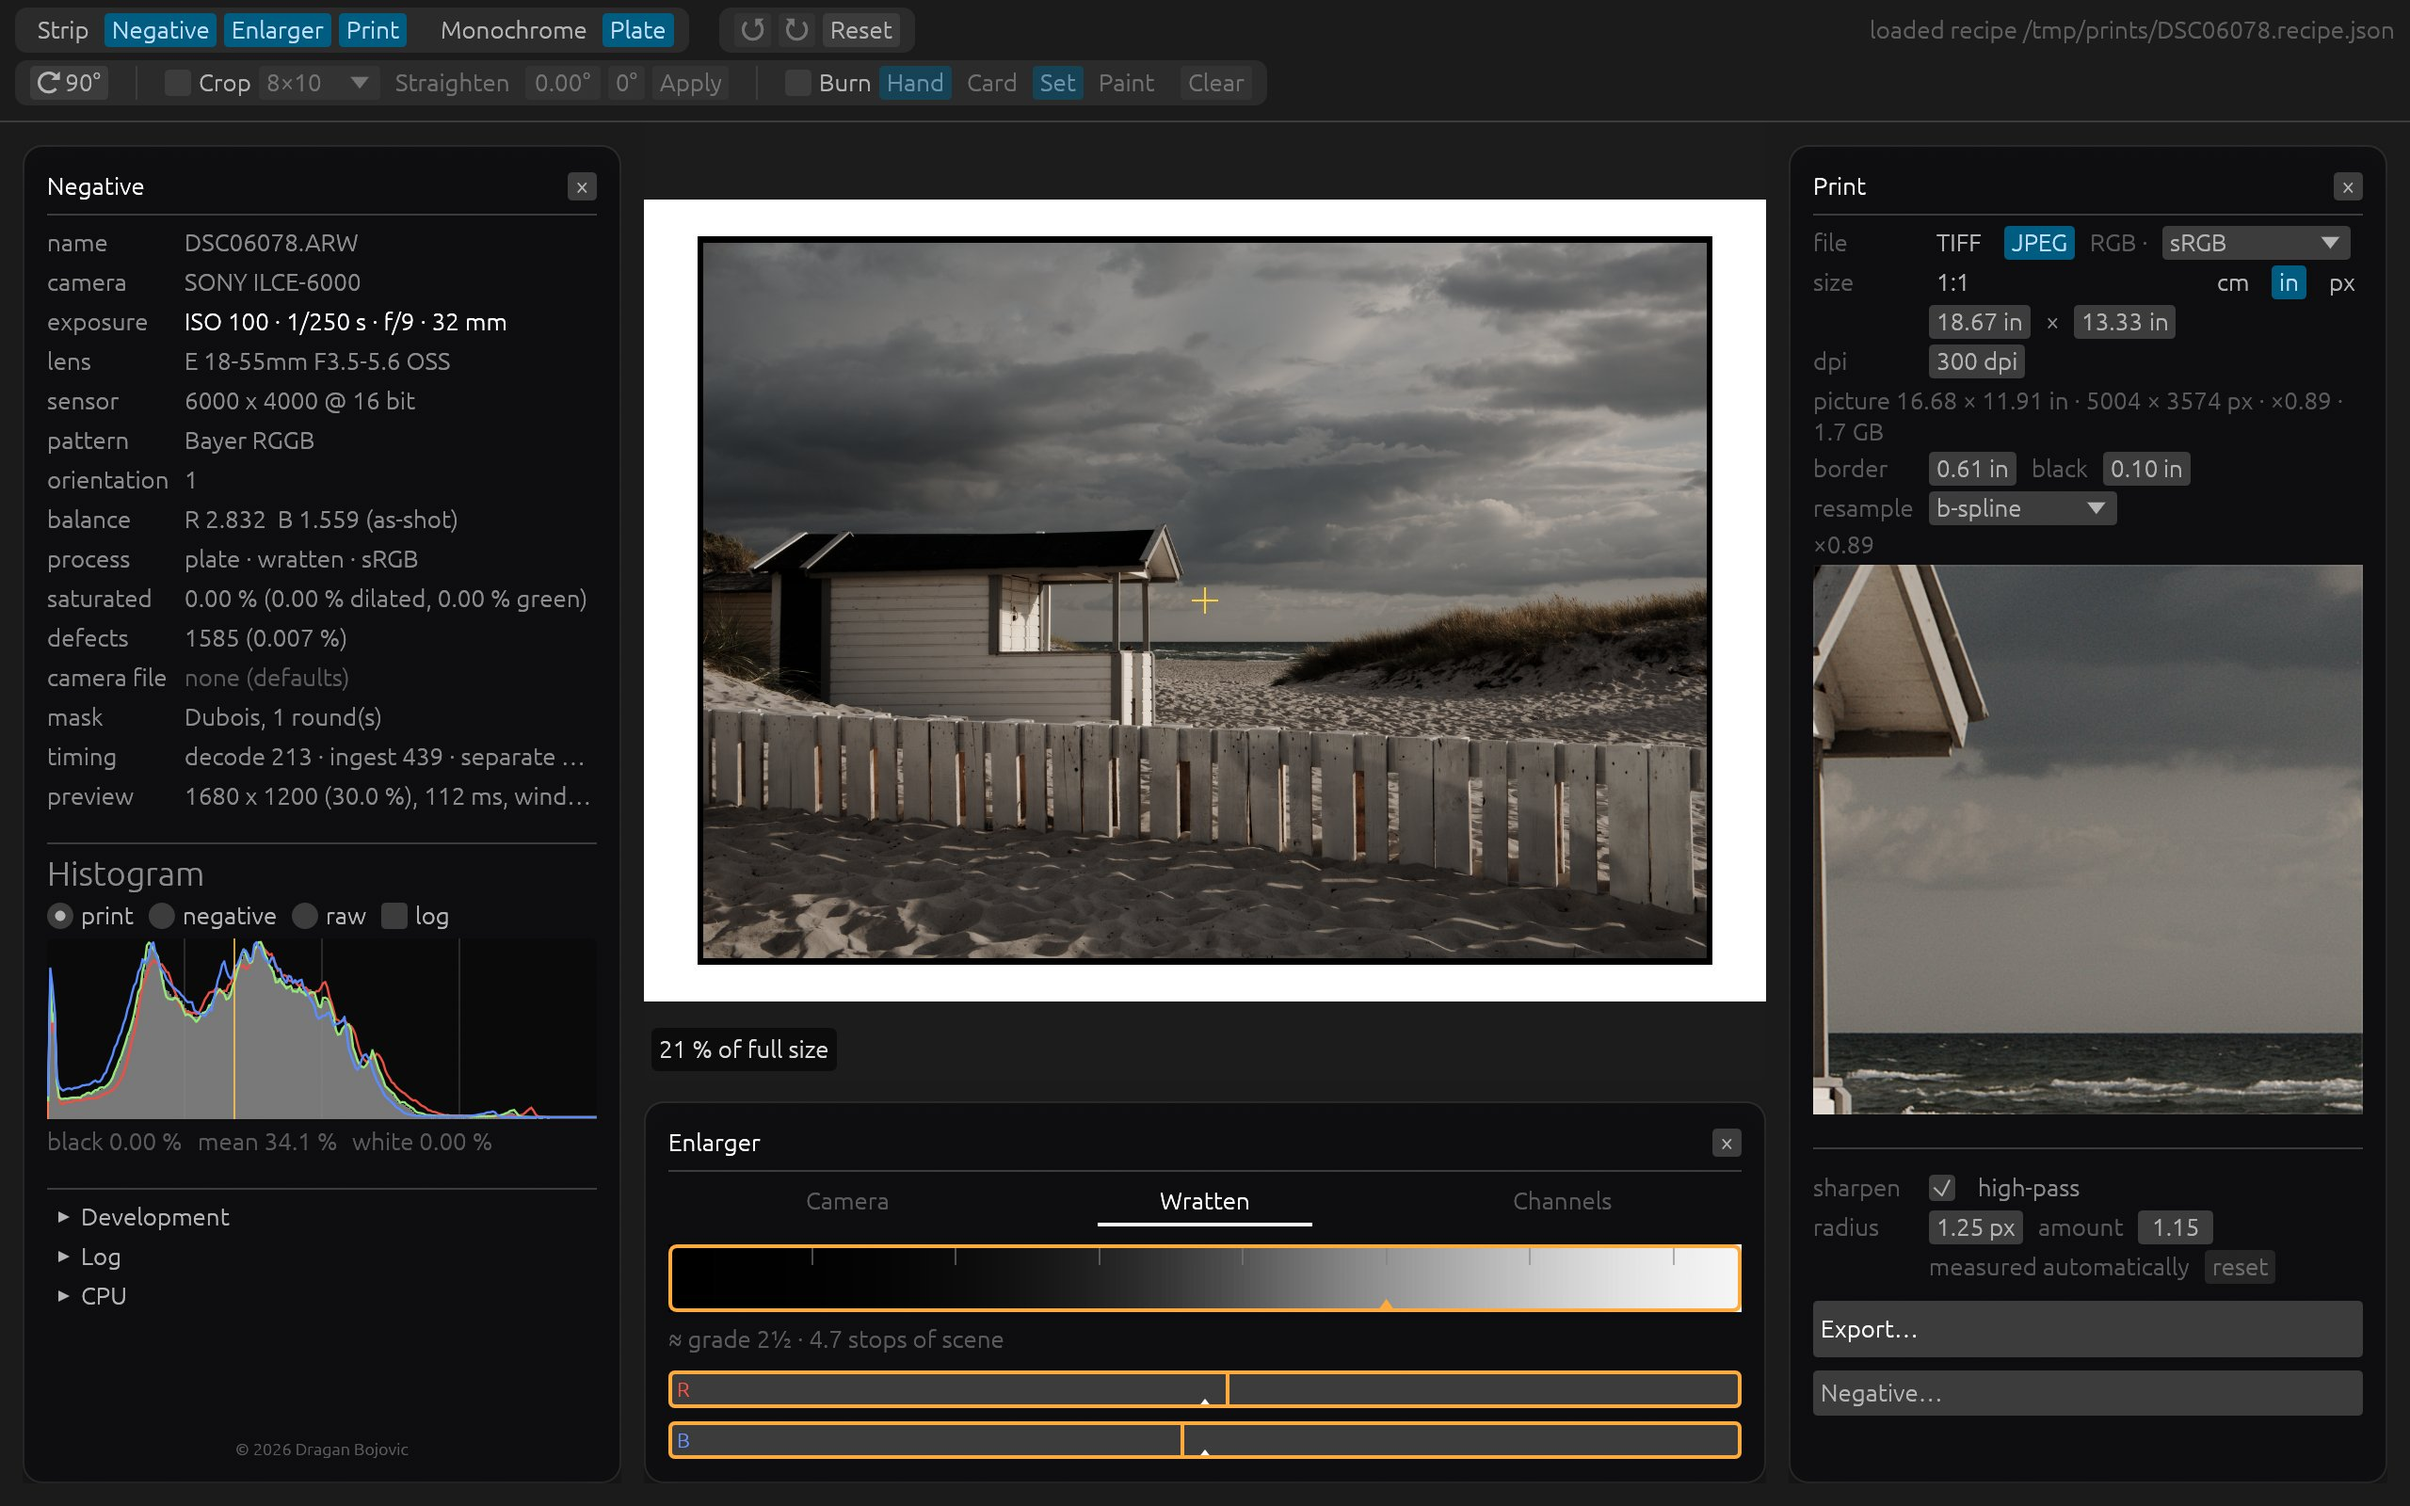
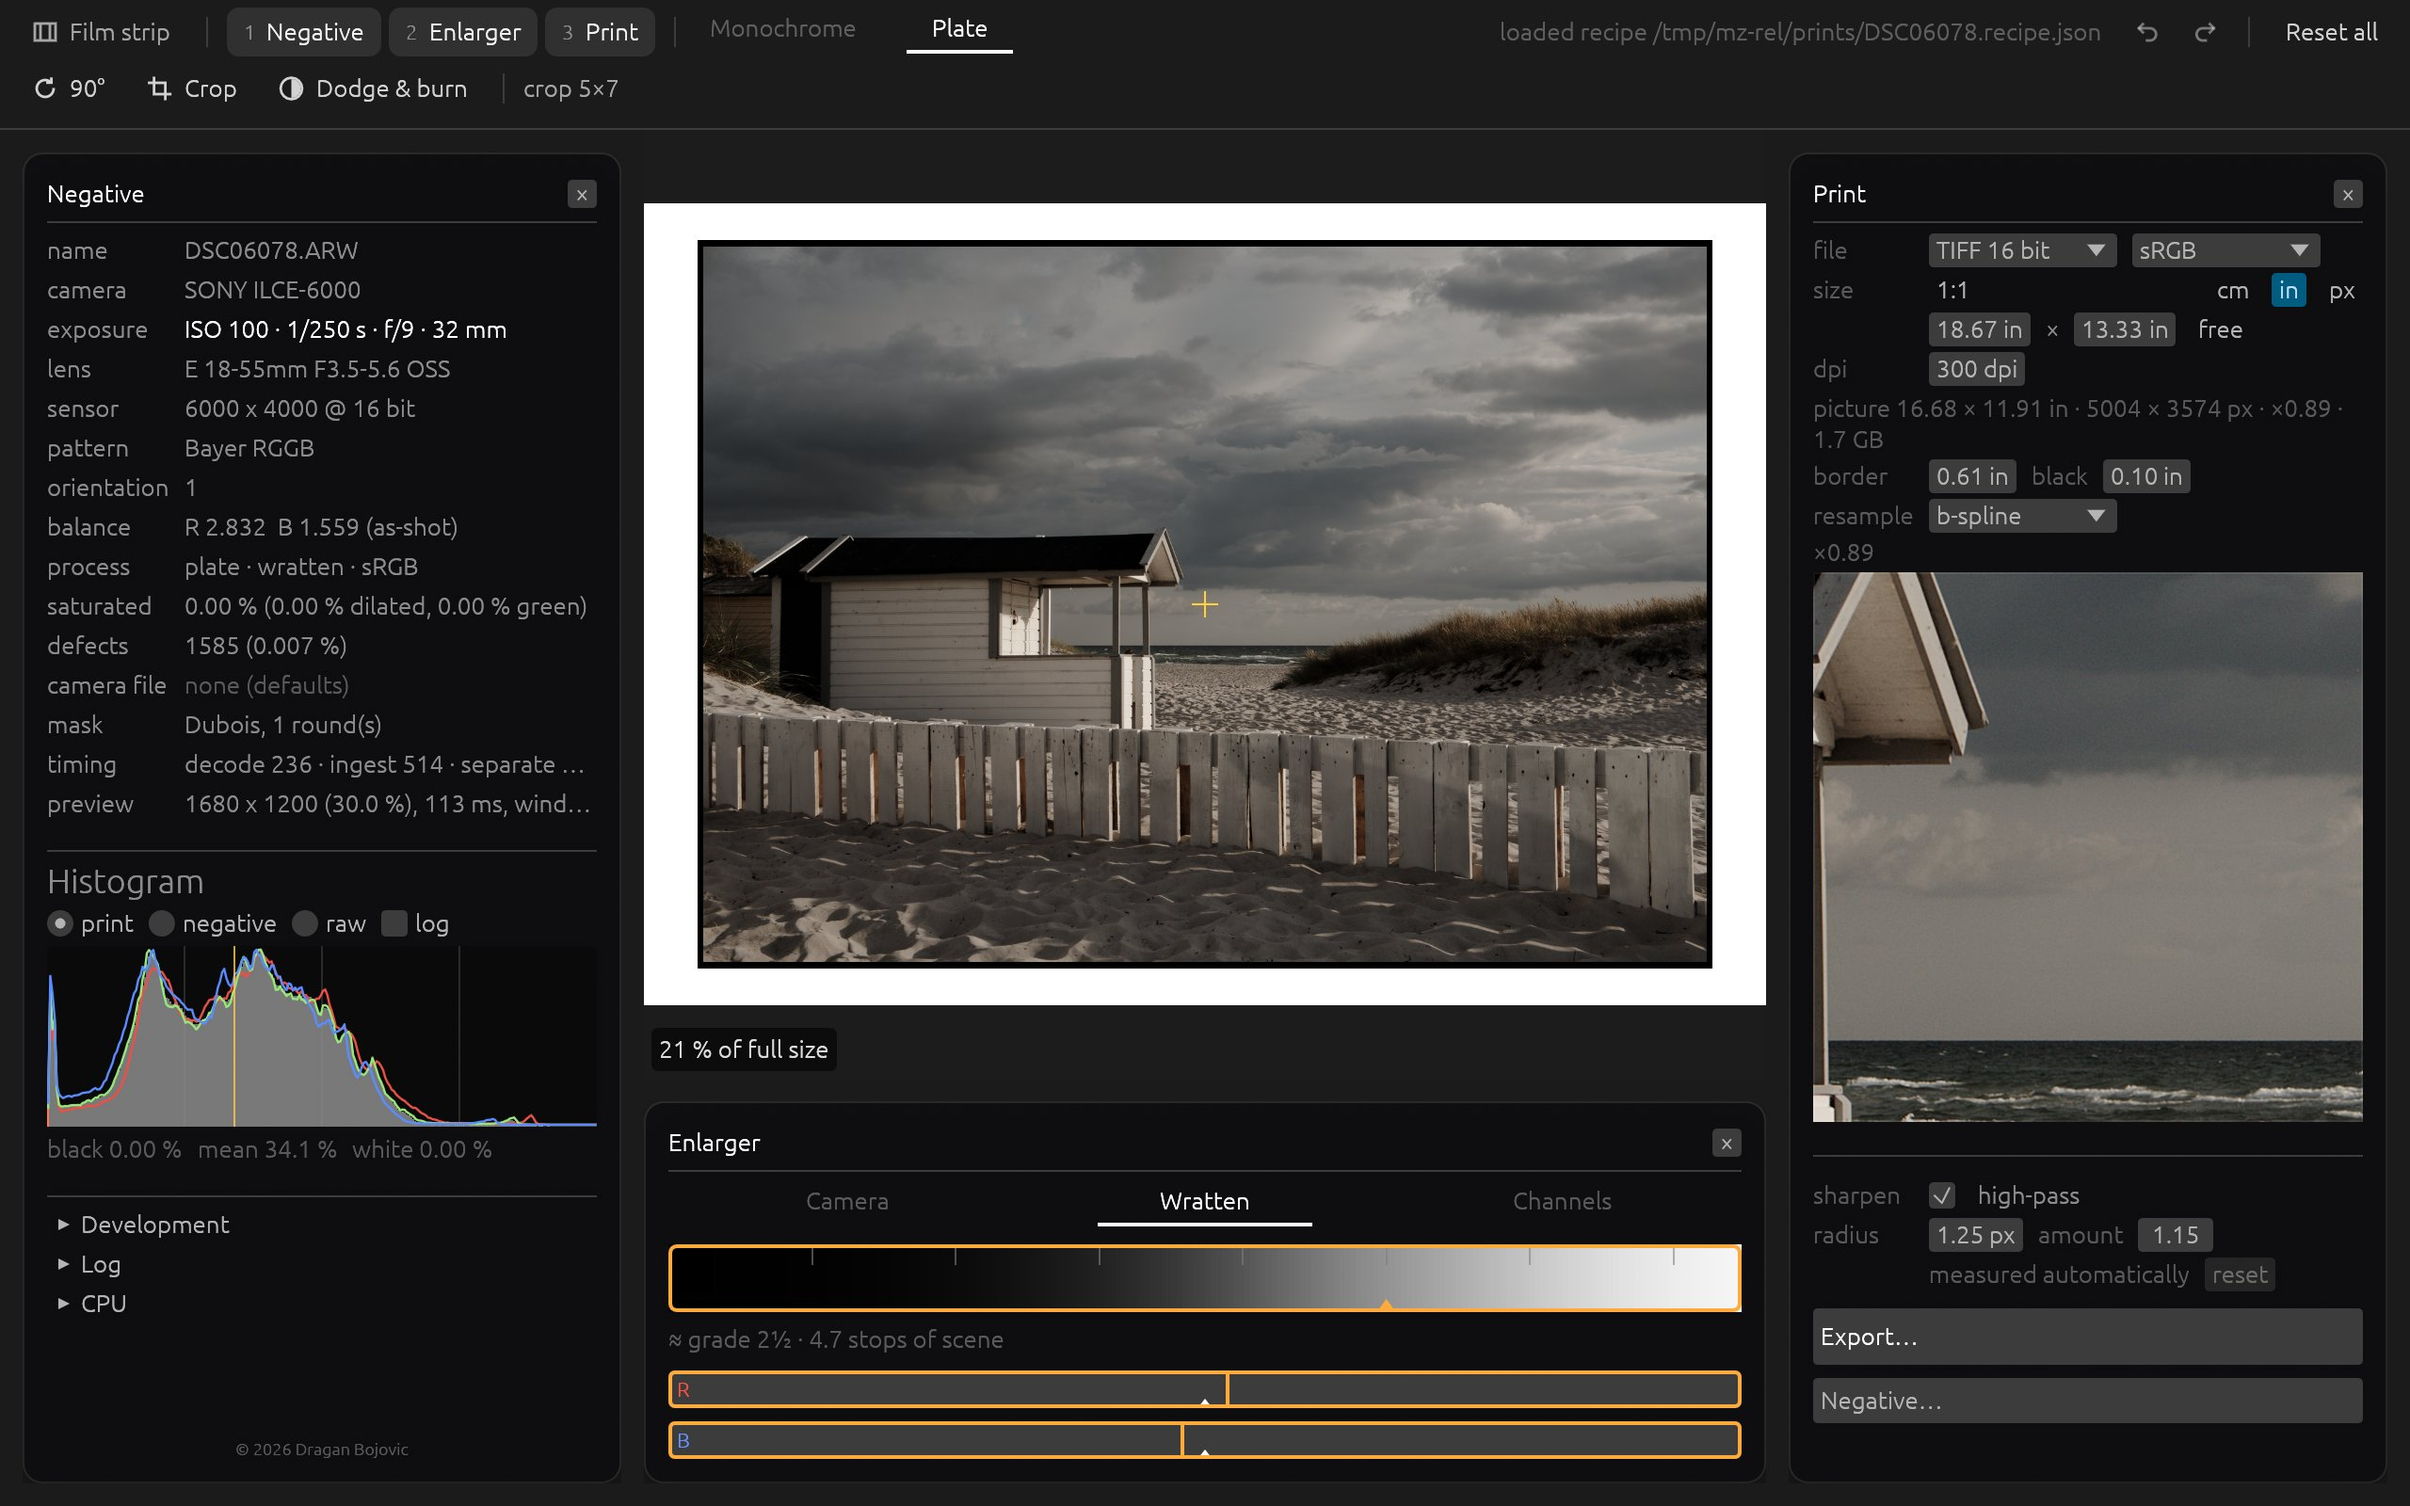
README: the window is shown with the new toolbar
docs/gui.jpg is the same capture as before, taken again from this
source: DSC06078.ARW of the sample files with the recipe beside it, in
the plate process, the strip closed. 2560 x 1600, the window's own
pixels at scale 2, as a JPEG of quality 85. The caption names what the
toolbar shows now; the second row reads "crop 5×7", what this picture
carries. The handbook uses the same file and its caption stays.

Run:
- The capture: `MIMIZAN_WINDOW=1280x800 MIMIZAN_WINDOW_BARE=1
  MIMIZAN_SCREENSHOT=…` of the release build of the commit before, on
  copies of the RAW and its recipe in a temporary folder, with settings
  written for it. The JPEG was looked at.

diff --git a/README.md b/README.md
@@ -42,7 +42,7 @@ It is for analog photographers and fine-art printers who decide the print on the
 
 The name is the beach at Mimizan, where the idea came up watching the surf: separate the waves, and keep the picture underneath. Lab is the darkroom.
 
-![Mimizan Lab in the plate process: a cabin at the Swedish coast, a photograph by seume (CC0) from a Sony ILCE-6000. The toolbar with the two processes and, in its second row, the 90° turn, Crop, Straighten and Burn; the Negative window on the left with the file, its development and the histogram of the three channels; the colour print in the middle, fitted, with its white border and its black edge; the Enlarger below with the taking filters, the paper strip and the two lamps; Print on the right with the sheet, its 1:1 box and the sharpening](docs/gui.jpg)
+![Mimizan Lab in the plate process: a cabin at the Swedish coast, a photograph by seume (CC0) from a Sony ILCE-6000. The toolbar with the film strip, the three panels and the two processes and, in its second row, the 90° turn, Crop and Dodge & burn, and beside them what the picture carries; the Negative window on the left with the file, its development and the histogram of the three channels; the colour print in the middle, fitted, with its white border and its black edge; the Enlarger below with the taking filters, the paper strip and the two lamps; Print on the right with the sheet, its 1:1 box and the sharpening](docs/gui.jpg)
 
 ## The negative
 
